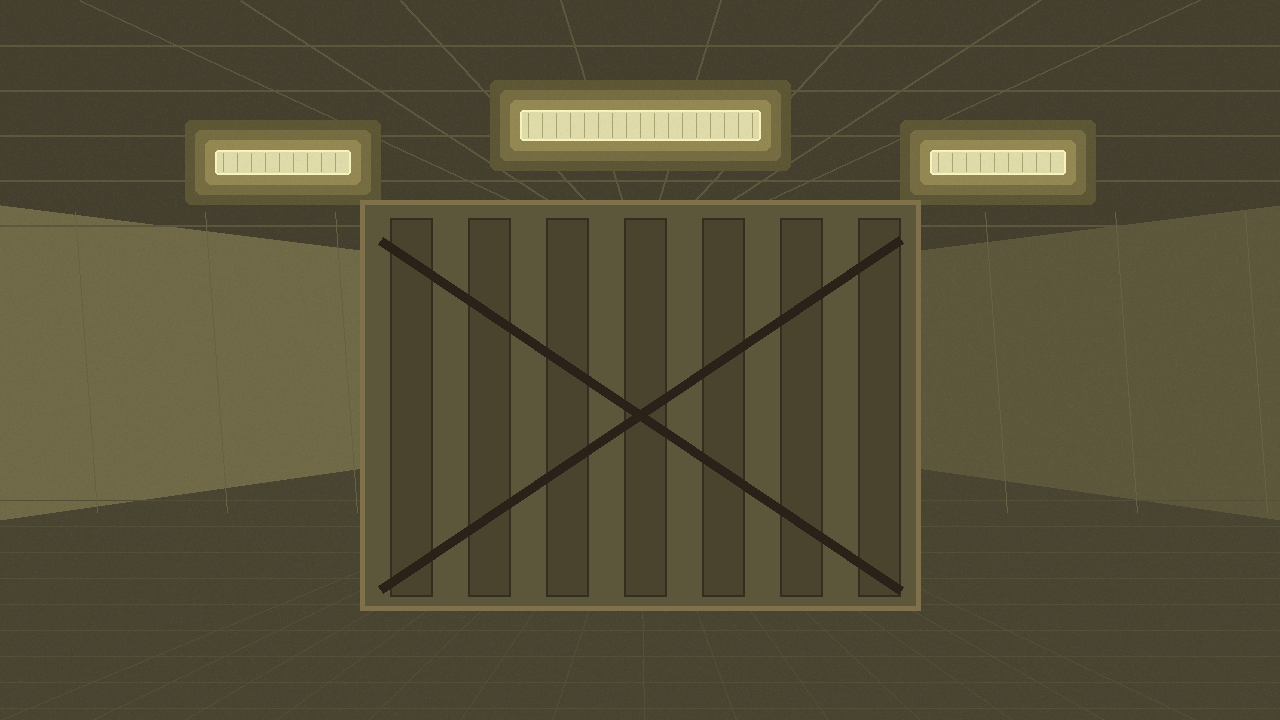
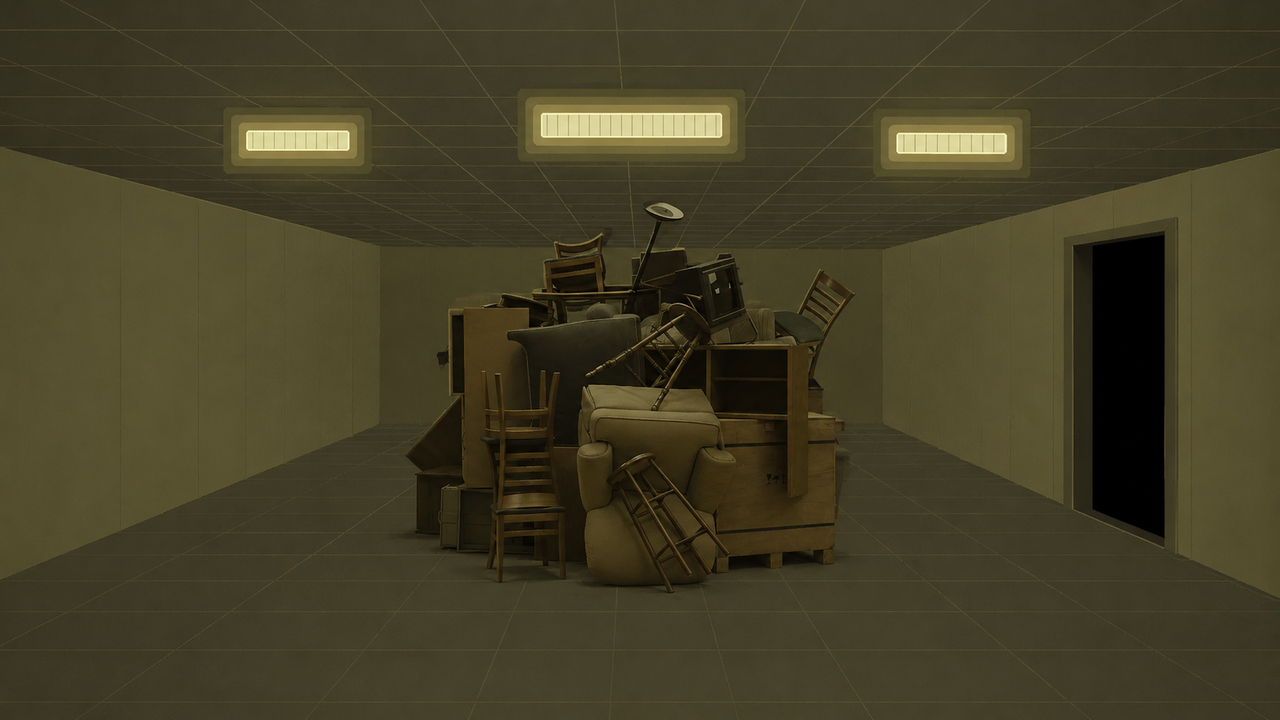
Replace right dead end background

diff --git a/tools/generate_assets.py b/tools/generate_assets.py
@@ -19,6 +19,7 @@ FORK_STOP_REFERENCE = SOURCE / "fork_stop_reference.png"
 LEFT_BLOOD_PATH_REFERENCE = SOURCE / "left_blood_path_reference.png"
 LEFT_SWITCH_ROOM_REFERENCE = SOURCE / "left_switch_room_reference.png"
 RIGHT_PANEL_PATH_REFERENCE = SOURCE / "right_panel_path_reference.png"
+RIGHT_DEAD_END_REFERENCE = SOURCE / "right_dead_end_reference.png"
 W, H = 1280, 720
 
 # Current visual mode is a polished placeholder: positions stay readable, but
@@ -416,6 +417,9 @@ def scene_right_panel_path() -> Image.Image:
 
 
 def scene_right_dead_end() -> Image.Image:
+    if RIGHT_DEAD_END_REFERENCE.exists():
+        return cover_reference(RIGHT_DEAD_END_REFERENCE)
+
     img, draw = blockout_room("BLOCKOUT: RIGHT_DEAD_END")
     draw.rectangle((360, 200, 920, 610), fill=(92, 86, 59), outline=LINE, width=5)
     for x in range(390, 900, 78):
